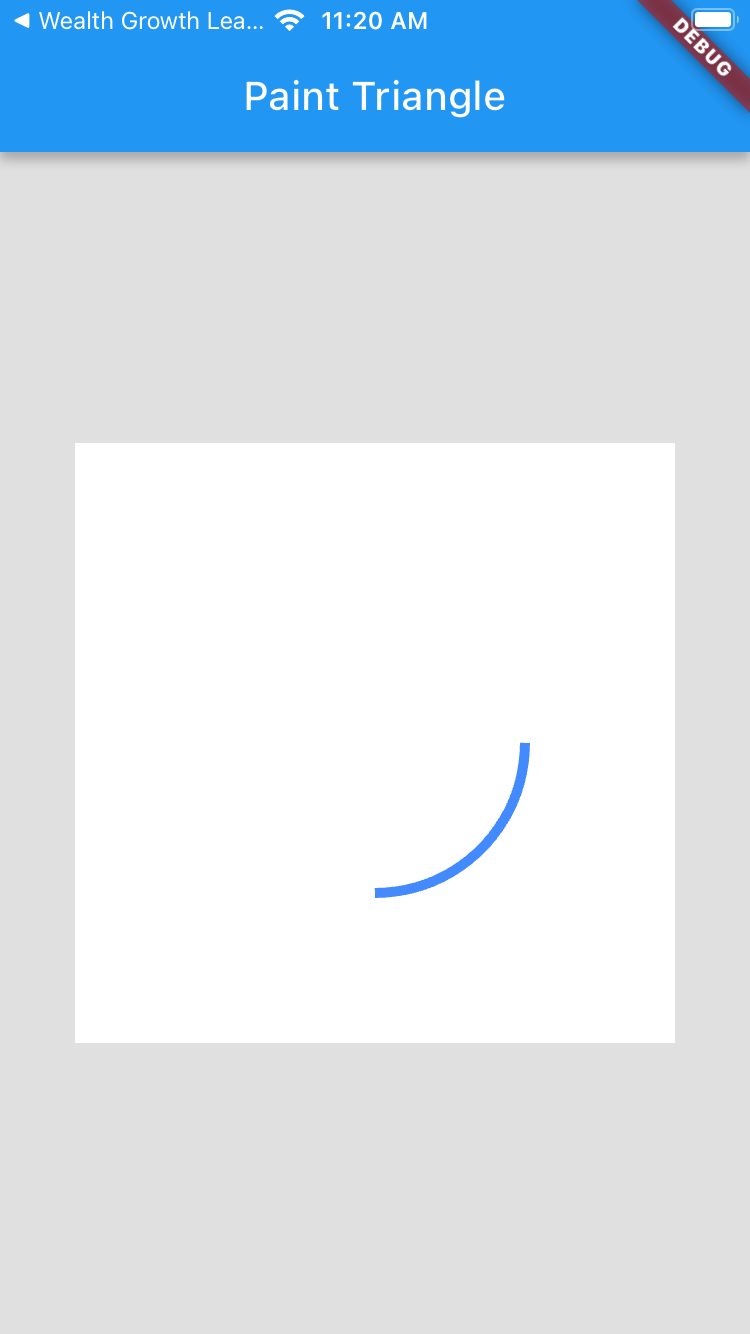
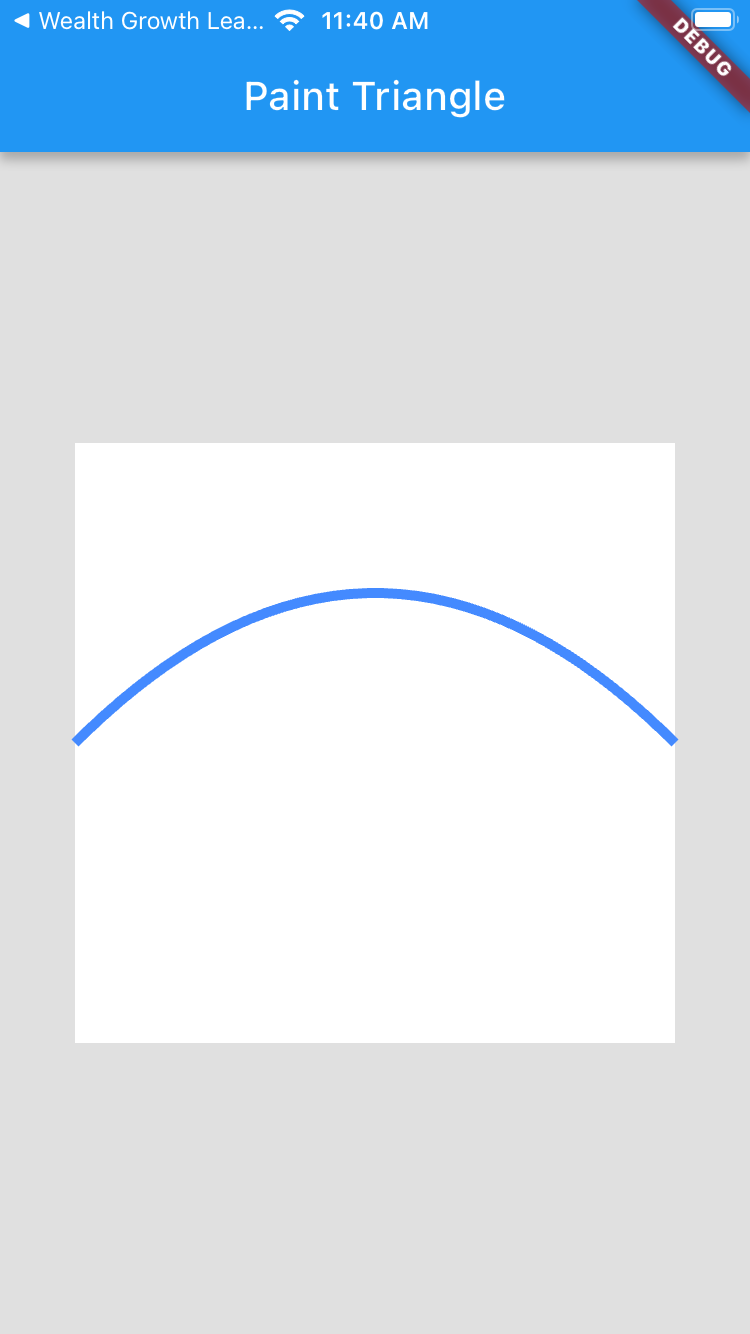
quadraticCurves

diff --git a/lib/main.dart b/lib/main.dart
@@ -1,5 +1,7 @@
+import 'dart:ui';
+
 import 'package:flutter/material.dart';
-import 'dart:math';
+
 
 void main(){
   runApp(MyApp());
@@ -43,28 +45,27 @@ class HomeScreen extends StatelessWidget {
 class MyCustomPainter extends CustomPainter{
   @override
   void paint(Canvas canvas, Size size) {
-
-    /*
-    * NOTE : YOU NEED A BOUNDING BOX , A START ANGLE AND A SWEEP ANGLE TO DRAW AN ARC*/
+/*
+* Adds a quadratic bezier segment that curves from the current point to the point at the offset (x2,y2)
+*  from the current point, using the control point at the offset (x1,y1) from the current point.*/
 
 
     // CREATING THE BRUSH
-    Paint brush=Paint()..strokeWidth=5..color=Colors.blueAccent..style = PaintingStyle.stroke;
+    Paint brush=Paint()..strokeWidth=5..color=Colors.blueAccent..style = PaintingStyle.fill;
 
-     // DEFINING THE CENTER
-     final arcCenter = Offset(size.width/2,size.height/2 );
-     // CREATING THE RECT WITH CENTER AND RADIUS
-    final arcRect = Rect.fromCircle(center: arcCenter, radius: 75);
-    // ASSIGNING THE START ANGLE
-    // degreesToRads IT USE TO CONVERT DEGREE TO RADIAN
-    final startAngle = degreesToRads(0);
-    // ASSIGNING THE SWEEP OR END ANGLE
-    final sweepAngle = degreesToRads(90);
-    // CREATING THE ARC
+    Path qbezier=Path();
+    // MOVE THE STARTING POINT
+    qbezier.moveTo(0, size.height/2);
+    // DEFINING THE PATH FOR QUADRATIC BEZIER CURVE
     // SYNTAX
-  //  canvas.drawArc(RECT OR CIRCLE, startAngle, sweepAngle, false, brush);
+    // DX DY DEFINES THE CONTROL POINT OFFSET
+    // 2DX 2DY DEFINES THE ENDPOINT OFFSET
+    // THE LAST OR SAY OUR FIRST POINT WILL BE OUR CURRENT POINT
+    //qbezier.relativeQuadraticBezierTo(DX, DY, 2DX, 2DY);
 
-    canvas.drawArc(arcRect, startAngle, sweepAngle,true, brush);
+    qbezier.relativeQuadraticBezierTo(size.width/2, -size.height/2, size.width, 0);
+    // DRAWING THE QUADRATIC BEZIER CURVE
+    canvas.drawPath(qbezier, brush);
 
 
   }
@@ -77,8 +78,5 @@ class MyCustomPainter extends CustomPainter{
 
 }
 
-// CONVERTING THE DEGREE TO RADIAN TO FORM AN ANGLE
-double degreesToRads(num deg) {
-  return (deg * pi) / 180.0;
-}
+
 

diff --git a/README.md b/README.md
@@ -14,13 +14,13 @@ A few resources to get you started if this is your first Flutter project:
 
 # Screenshot 
 
-<img src="https://github.com/Mirzaazmath/flutter_custompaint_overview/blob/arc/assets/Screenshot1.png" height="400">
+<img src="https://github.com/Mirzaazmath/flutter_custompaint_overview/blob/quadraticCurves/assets/Screenshot1.png" height="400">
 
 
 
 # Screenshot 2
 
-<img src="https://github.com/Mirzaazmath/flutter_custompaint_overview/blob/arc/assets/Screenshot2.png" height="400">
+<img src="https://github.com/Mirzaazmath/flutter_custompaint_overview/blob/quadraticCurves/assets/Screenshot2.png" height="400">
 
 - [Lab: Write your first Flutter app](https://docs.flutter.dev/get-started/codelab)
 - [Cookbook: Useful Flutter samples](https://docs.flutter.dev/cookbook)
